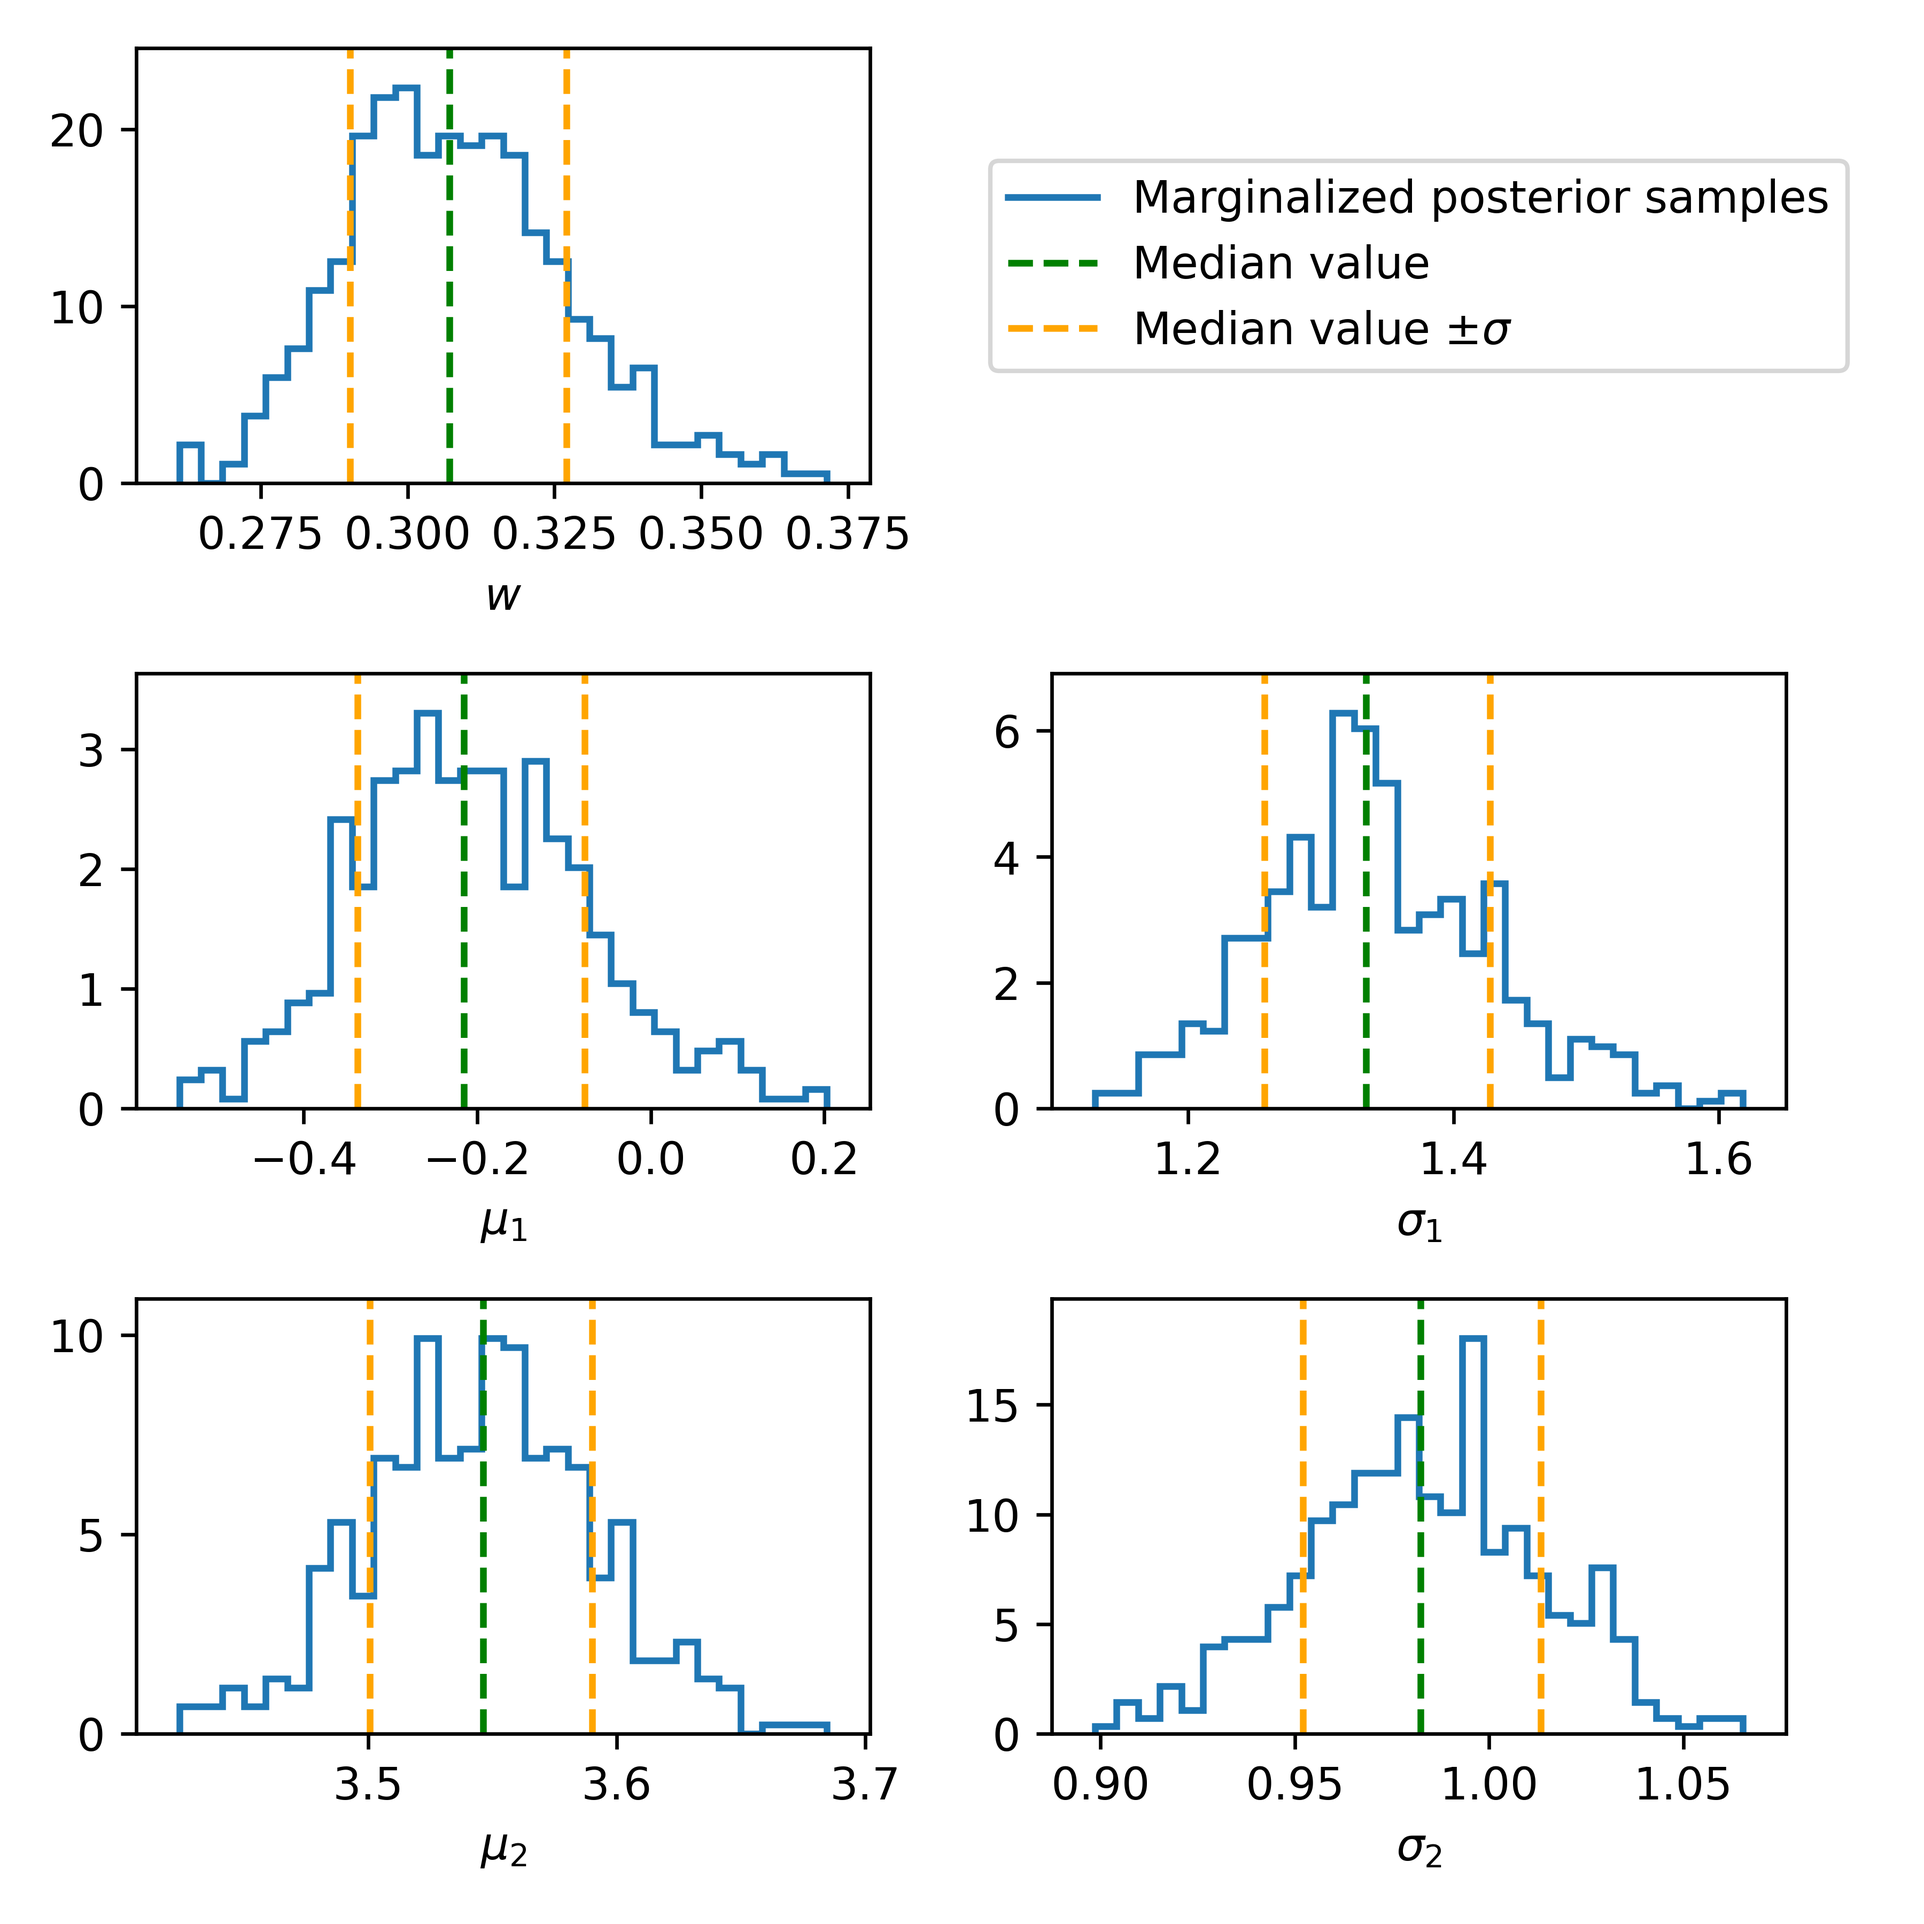
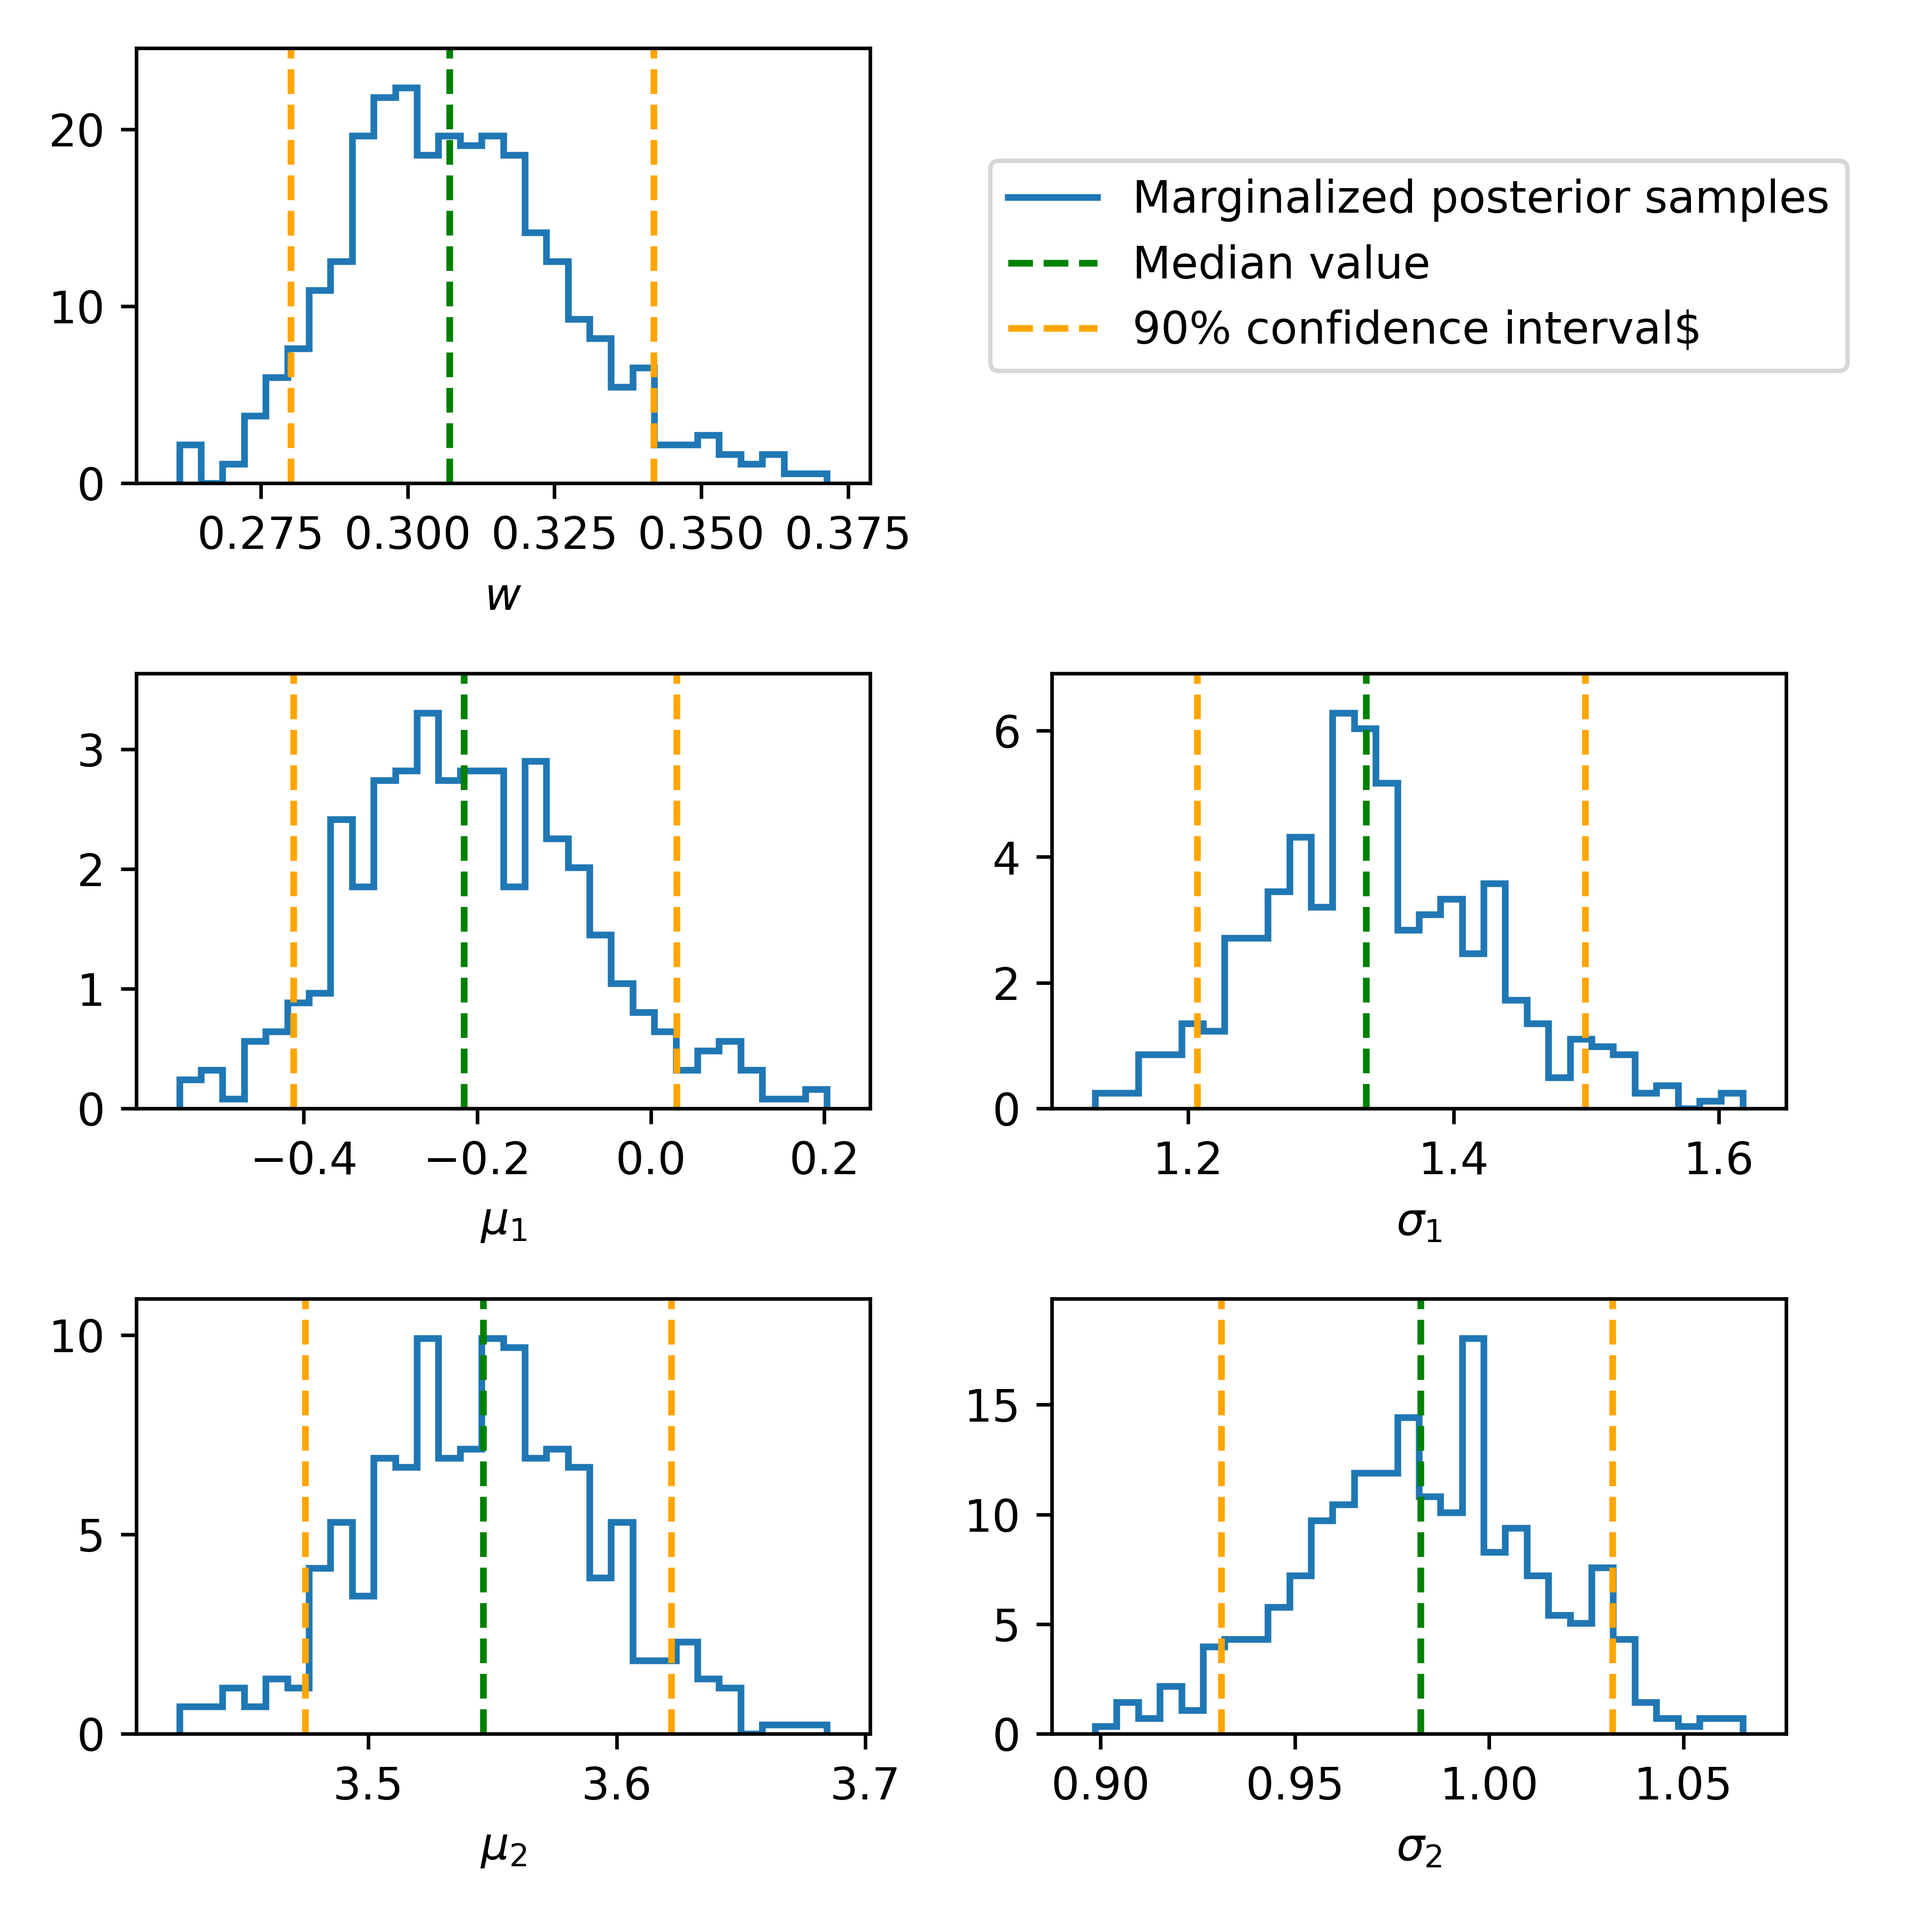
01/04: adjusted to 90% confidence intervals

Changed region(s): [[0.5911, 0.1556, 0.8711, 0.1867]]

diff --git a/pdf_analysis.py b/pdf_analysis.py
@@ -24,7 +24,7 @@ def percentile(xx, pdf, perc):
     return find_perc
 
 def errors_around_peak(xx, pdf):
-    """From the PDF find the values of xx where a certain percentile is hit.
+    """From the PDF find the median value of xx togheter with 90% confidence interval.
 
     Args:
         xx (np.array): array of x values
@@ -32,20 +32,16 @@ def errors_around_peak(xx, pdf):
 
     Returns:
         tuple:
-            - xx_peak(float): value of xx at the peak of the pdf
-            - error_plus(float): positive error, defined as when the cdf hits 84% minus xx_peak
-            - error_minus(float): negative error, defined as xx_peak minus when the cdf hits 26%
+            - xx_peak(float): value of xx at the median of the pdf
+            - error_plus(float): positive error, defined as when the cdf hits 95% minus xx_peak
+            - error_minus(float): negative error, defined as xx_peak minus when the cdf hits 5%
     """
-    perc = percentile(xx, pdf, [0.16,0.50, 0.84])
+    perc = percentile(xx, pdf, [0.05,0.50, 0.95])
     xx_min = float(perc[0])
     xx_peak = float(perc[1])
     xx_max = float(perc[2])
     
     error_plus = xx_max - xx_peak
     error_minus = xx_peak - xx_min
-
-    if error_minus < 0:
-        error_minus = np.nan
-        print("Peak is before 16% of the distribution! Caution!")
 
     return xx_peak, error_plus, error_minus   

diff --git a/GRB_class_1b.py b/GRB_class_1b.py
@@ -396,7 +396,7 @@ if __name__ == "__main__":
         Line2D([0], [0], color='C0', linewidth=1.5, label='Marginalized posterior samples'),
         #Line2D([0], [0], color='r', linestyle='dashed', label='Prior'),
         Line2D([0], [0], color='green', linestyle='dashed', label='Median value'),
-        Line2D([0], [0], color='orange', linestyle='dashed', label='Median value $\\pm\\sigma$')]
+        Line2D([0], [0], color='orange', linestyle='dashed', label='90% confidence interval$')]
     ax_leg.legend(handles=legend_elements, loc='center')
     ax_leg.axis('off')  # Hide axes, ticks, spines and background
     plt.tight_layout()
@@ -424,8 +424,8 @@ if __name__ == "__main__":
 
     # end of point: save, show or close all the open figures
     
-    plt.show()
-    exit()
+    #plt.show()
+    #exit()
 
     fig0.savefig(main_dir+"\\Results\\1b\\Err_Dataset.png", dpi = 600)
     fig1.savefig(main_dir+"\\Results\\1b\\Err_Parameters_chain.png", dpi = 600)

diff --git a/GRB_class_1.py b/GRB_class_1.py
@@ -404,7 +404,7 @@ if __name__ == "__main__":
         Line2D([0], [0], color='C0', linewidth=1.5, label='Marginalized posterior samples'),
         #Line2D([0], [0], color='r', linestyle='dashed', label='Prior'),
         Line2D([0], [0], color='green', linestyle='dashed', label='Median value'),
-        Line2D([0], [0], color='orange', linestyle='dashed', label='Median value $\\pm\\sigma$')]
+        Line2D([0], [0], color='orange', linestyle='dashed', label='90% confidence interval')]
     ax_leg.legend(handles=legend_elements, loc='center')
     ax_leg.axis('off')  # Hide axes, ticks, spines and background
     plt.tight_layout()
@@ -434,7 +434,7 @@ if __name__ == "__main__":
     # end of first point: show, save or close all the open figures
 
     plt.show()
-    exit()
+    #exit()
 
     fig1.savefig(main_dir+"\\Results\\1a\\Parameters_chain.png", dpi = 600)
     fig2.savefig(main_dir+"\\Results\\1a\\Parameters_chain_zoom.png", dpi = 600)
